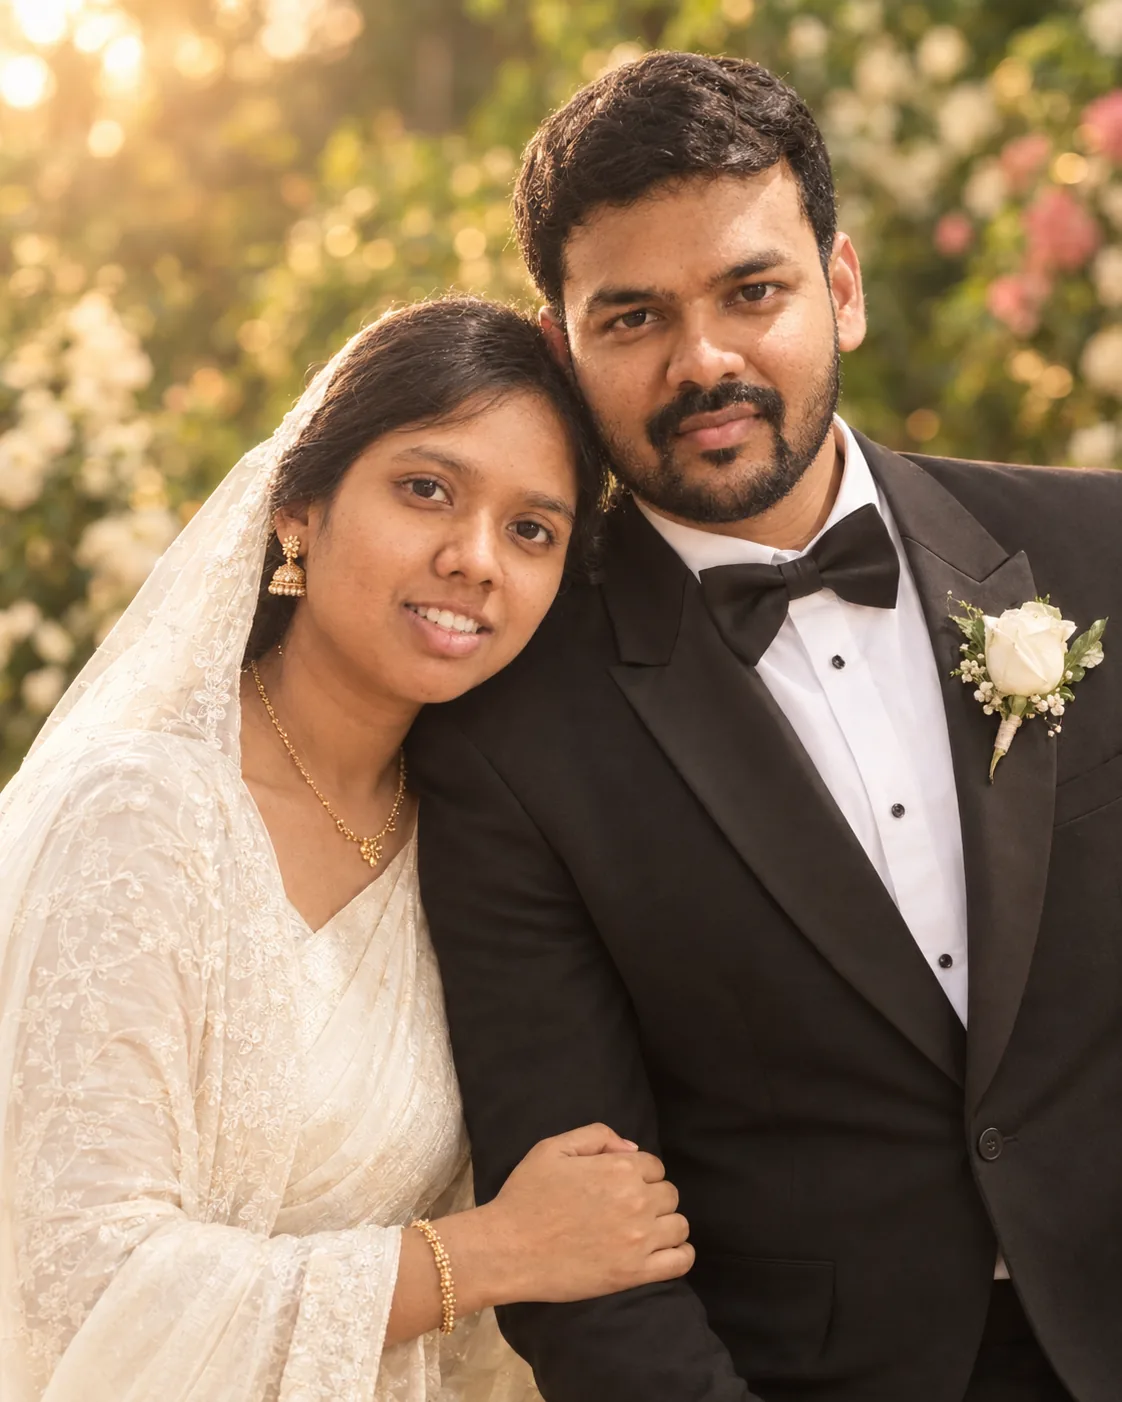
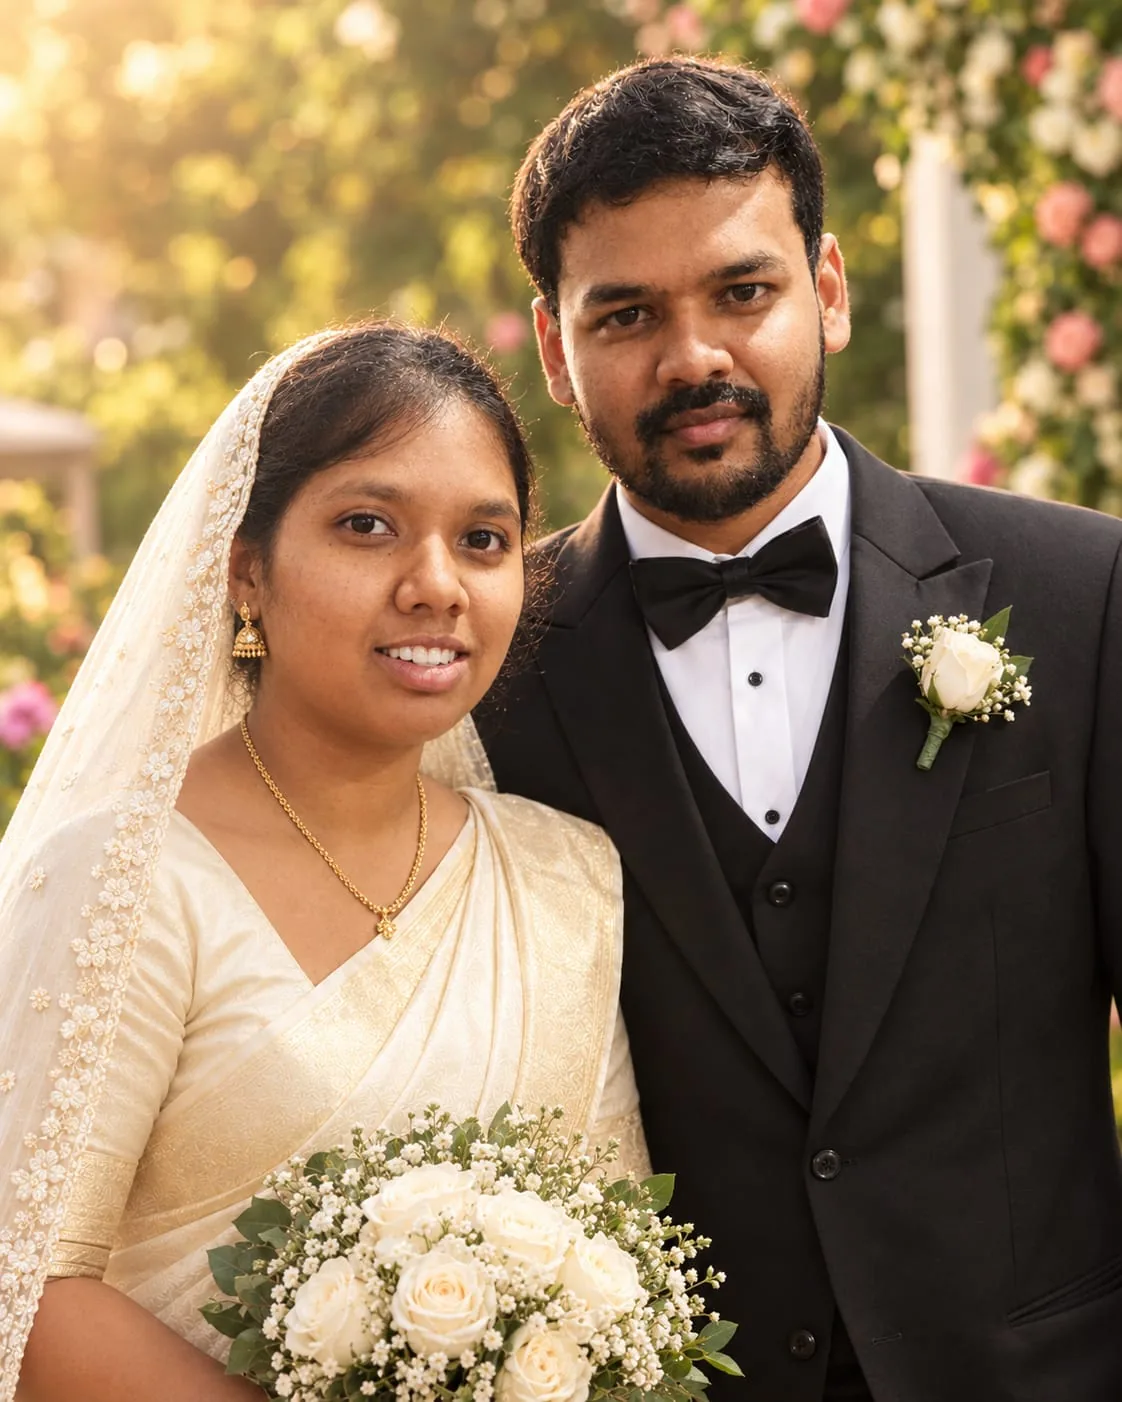
Swap hero and Forever Yours photos

diff --git a/index.html b/index.html
@@ -114,7 +114,7 @@
       <figure class="hero-portrait" data-parallax="-0.06">
         <svg class="arch-frame" viewBox="0 0 100 122" preserveAspectRatio="none" aria-hidden="true"><path class="draw" d="M1 121V50A49 49 0 0 1 99 50V121"/></svg>
         <div class="arch">
-          <img src="images/hero.webp" width="1122" height="1402" alt="Arun in a black tuxedo and Priya in an ivory saree and veil, holding a white bouquet in a sunlit garden" fetchpriority="high">
+          <img src="images/hero.webp" width="1122" height="1402" alt="Priya in an ivory saree and veil resting her head on Arun's shoulder, Arun in a black tuxedo, in a golden-hour garden" fetchpriority="high">
         </div>
         <span class="sprig sprig-hero" aria-hidden="true"></span>
       </figure>
@@ -191,7 +191,7 @@
       <div class="gallery-grid">
         <figure class="g-item g1" data-img-reveal>
           <button class="g-open" type="button" data-index="0" aria-label="View photo: Forever Yours">
-            <img src="images/forever.webp" width="1122" height="1402" alt="Priya in an ivory saree and veil resting her head on Arun's shoulder, Arun in a black tuxedo, in a golden-hour garden" loading="lazy" decoding="async">
+            <img src="images/forever.webp" width="1122" height="1402" alt="Arun in a black tuxedo and Priya in an ivory saree and veil, holding a white bouquet in a sunlit garden" loading="lazy" decoding="async">
           </button>
           <figcaption><span>01</span> Forever Yours</figcaption>
         </figure>
